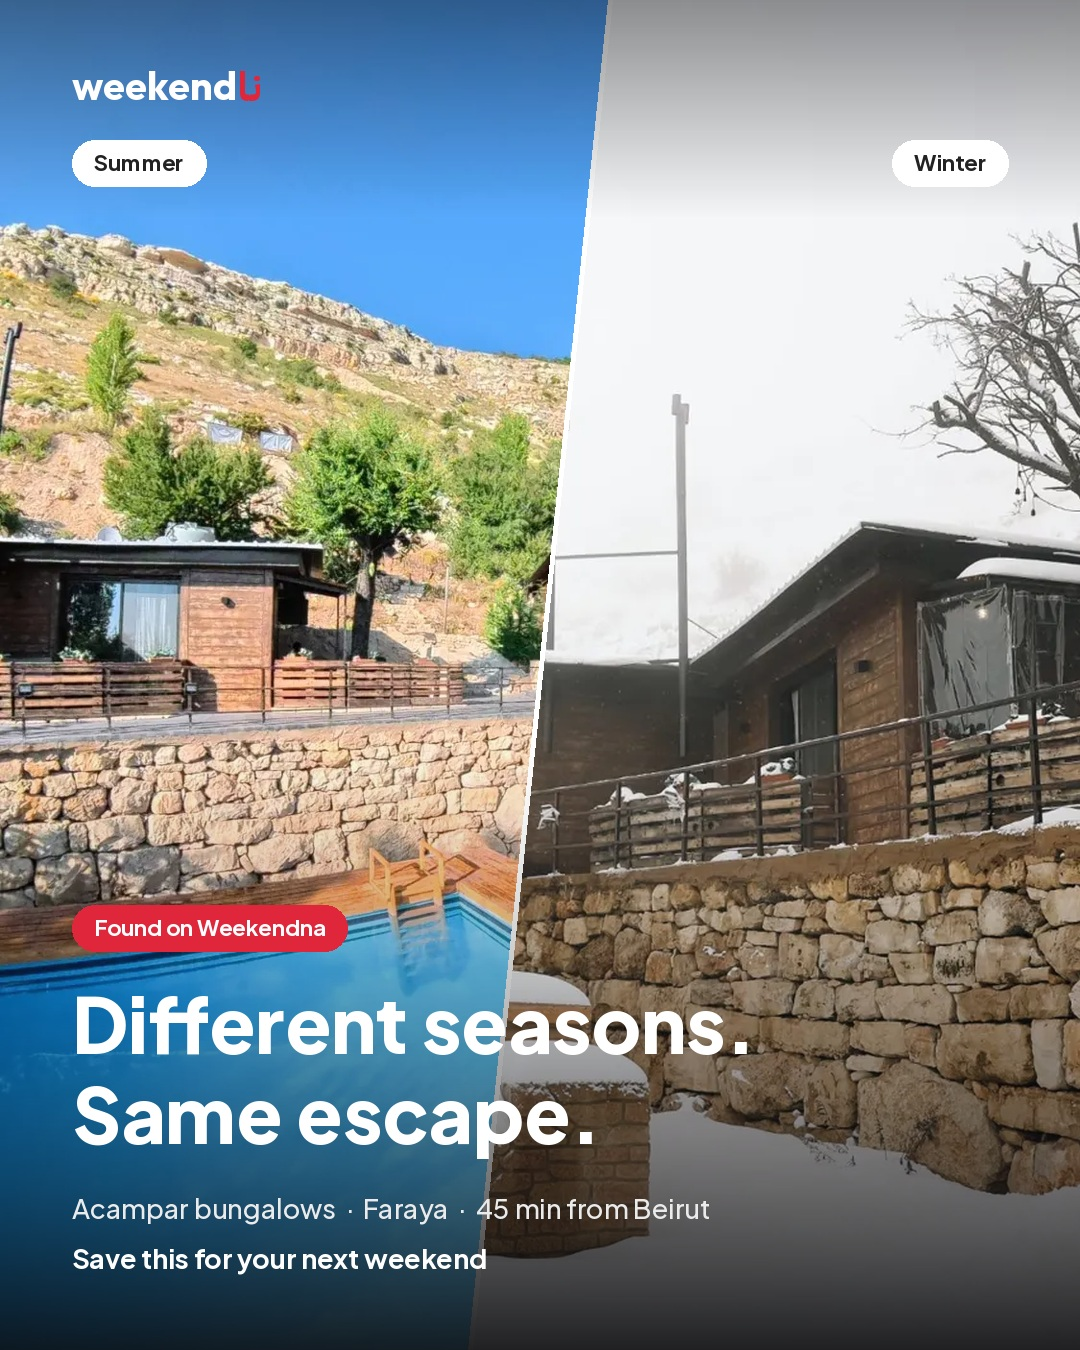
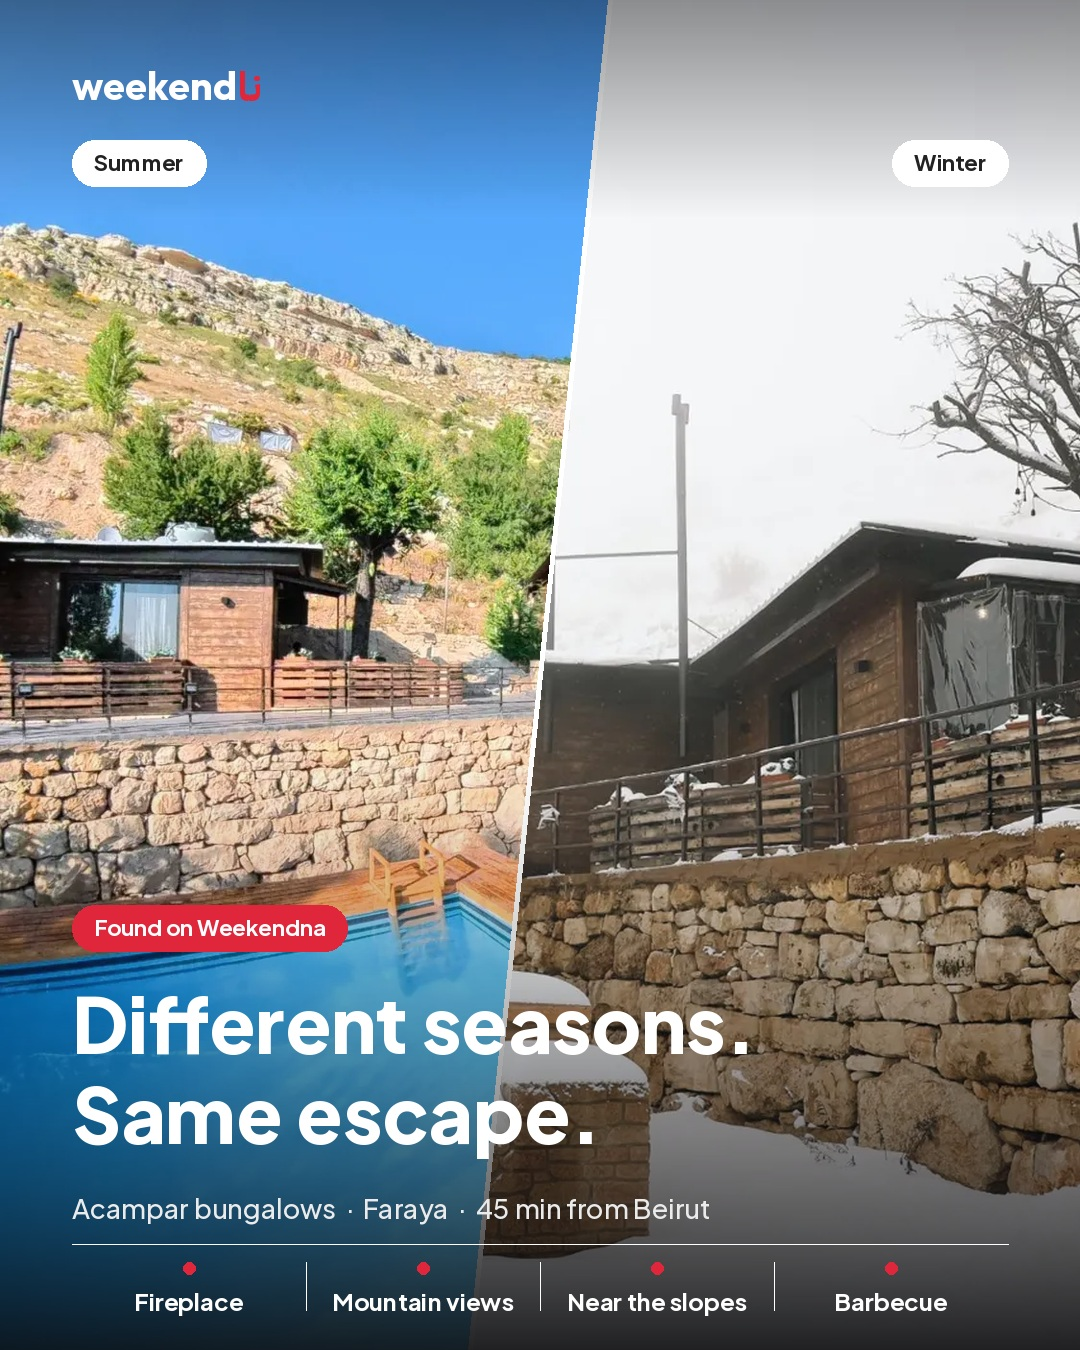
Acampar seasons draft: verified amenity row
Claude-Session: https://claude.ai/code/session_01QuaNDiRe1Txgkiz29wZCBD

Changed region(s): [[0.0611, 0.9022, 0.4583, 0.9956], [0.5194, 0.9333, 0.6722, 0.9956], [0.7944, 0.9333, 0.8861, 0.9956]]

diff --git a/tools/examples/make_acampar_seasons.py b/tools/examples/make_acampar_seasons.py
@@ -24,7 +24,14 @@ pill(d, M, 905, "Found on Weekendna", jak(700, 22))
 d.text((M, 975), "Different seasons.", font=jak(800, 76), fill=WHITE)
 d.text((M, 1065), "Same escape.", font=jak(800, 76), fill=WHITE)
 d.text((M, 1190), "Acampar bungalows  ·  Faraya  ·  45 min from Beirut", font=jak(500, 27), fill=(235, 235, 235))
-d.text((M, 1240), "Save this for your next weekend", font=jak(700, 27), fill=WHITE)
+items = ["Fireplace", "Mountain views", "Near the slopes", "Barbecue"]
+cw = (W - 2 * M) / len(items); fy = jak(700, 24)
+d.line([(M, 1244), (W - M, 1244)], fill=(255, 255, 255), width=1)
+for i, s in enumerate(items):
+    cx = M + cw * i + cw / 2; tw = d.textlength(s, font=fy)
+    d.ellipse((cx - 6, 1262, cx + 6, 1274), fill=RED)
+    d.text((cx - tw / 2, 1286), s, font=fy, fill=WHITE)
+    if i: d.line([(M + cw * i, 1262), (M + cw * i, 1310)], fill=(255, 255, 255), width=1)
 img.save(f"{OUT}/seasons-1.jpg", quality=94)
 open(f"{OUT}/caption.txt", "w", encoding="utf-8").write("""Different seasons. Same escape.
 Found on Weekendna: Acampar Faraya, wooden bungalows near the ski slopes, 45 min from Beirut. Pick the one that suits your weekend: studios with a fireplace for two or four, a one bedroom bungalow, or a two bedroom bungalow for up to 6.
